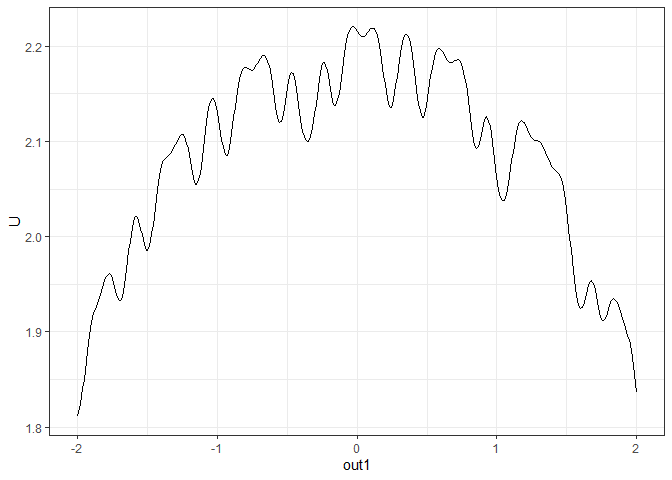
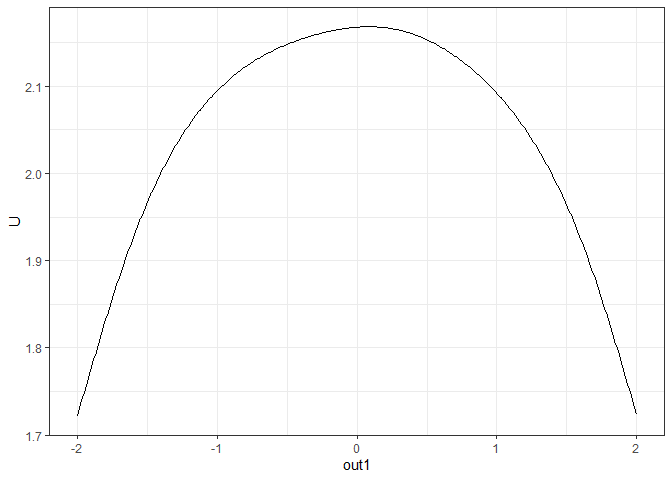
21.3.8.1
Add 3d_mat support for 3d_animation

diff --git a/README.md b/README.md
@@ -54,7 +54,7 @@ batch_test_result
 #> Output(s) from 6 simulations.
 batch_test_result <- attach_all_matrices(batch_test_result)
 
-# WARNING if you are using bigmemory: Due to a bug of RStudio, its variable inspector cannot handle objects with null external pointers. Work around: Turn off "automatically load workspace image"; change the variable inspector to "Manual refresh only", and then load the image and use attach_all_matrices for all batch simulations. After that, you can safely use the variable inspector. #
+# WARNING if you are using bigmemory: Due to a bug of RStudio(https://github.com/rstudio/rstudio/issues/8923), its variable inspector cannot handle objects with null external pointers. Work around: Turn off "automatically load workspace image"; change the variable inspector to "Manual refresh only", and then load the image and use attach_all_matrices for all batch simulations. After that, you can safely use the variable inspector. #
 
 # Batch simulation with two parameters
 
@@ -76,7 +76,7 @@ batch_test_result2
 # Build landscapes
 
 ## 1. 2d density landscape
-l1 <- make_2d_density(single_test, x = "out1", from = -2, to = 2, adjust = 0.1)
+l1 <- make_2d_density(single_test, x = "out1", from = -2, to = 2, adjust = 1)
 plot(l1)
 ```
 
@@ -119,6 +119,10 @@ l3 <- make_3d_animation_multisim(batch_test_result, x = "out1", y = "out2", fr =
 #> Done!
 #> Making the 2d plot...
 #> Done!
+#> Making the 3d matrix...
+#> Making the 2d plot...
+#> Done!
+#> Done!
 # plot(l3)
 plotly::orca(plot(l3), file = "man/figures/README-example-l3.png")
 ```
@@ -130,6 +134,12 @@ knitr::include_graphics("man/figures/README-example-l3.png")
 <img src="man/figures/README-example-l3.png" width="100%" />
 
 ``` r
+plot(l3, 3)
+```
+
+<img src="man/figures/README-example-5.png" width="100%" />
+
+``` r
 ## 4. 2d density matrix with two changing parameters
 l4 <- make_2d_matrix(batch_test_result2, x = "out1", rows = "var1", cols = "var2", from = -3, to = 3)
 #> Making the plot...
@@ -137,7 +147,7 @@ l4 <- make_2d_matrix(batch_test_result2, x = "out1", rows = "var1", cols = "var2
 plot(l4)
 ```
 
-<img src="man/figures/README-example-5.png" width="100%" />
+<img src="man/figures/README-example-6.png" width="100%" />
 
 ``` r
 l4_1 <- make_2d_matrix(batch_test_result, x = "out1", cols = "var3", from = -3, to = 3)
@@ -146,7 +156,7 @@ l4_1 <- make_2d_matrix(batch_test_result, x = "out1", cols = "var3", from = -3, 
 plot(l4_1)
 ```
 
-<img src="man/figures/README-example-6.png" width="100%" />
+<img src="man/figures/README-example-7.png" width="100%" />
 
 ``` r
 ## 5. 3d (including color dimension) heatplot matrix with two changing parameters
@@ -156,7 +166,7 @@ l5 <- make_3d_matrix(batch_test_result2, x = "out1", y = "out2", rows = "var1", 
 plot(l5)
 ```
 
-<img src="man/figures/README-example-7.png" width="100%" />
+<img src="man/figures/README-example-8.png" width="100%" />
 
 ``` r
 l5_1 <- make_3d_matrix(batch_test_result, x = "out1", y = "out2", cols = "var3", lims = c(-3,3,-3,3), h = 0.01, kde_fun = "ks", zmax = 10)
@@ -165,6 +175,6 @@ l5_1 <- make_3d_matrix(batch_test_result, x = "out1", y = "out2", cols = "var3",
 plot(l5_1)
 ```
 
-<img src="man/figures/README-example-8.png" width="100%" />
+<img src="man/figures/README-example-9.png" width="100%" />
 
 <!-- devtools::build_readme() -->
